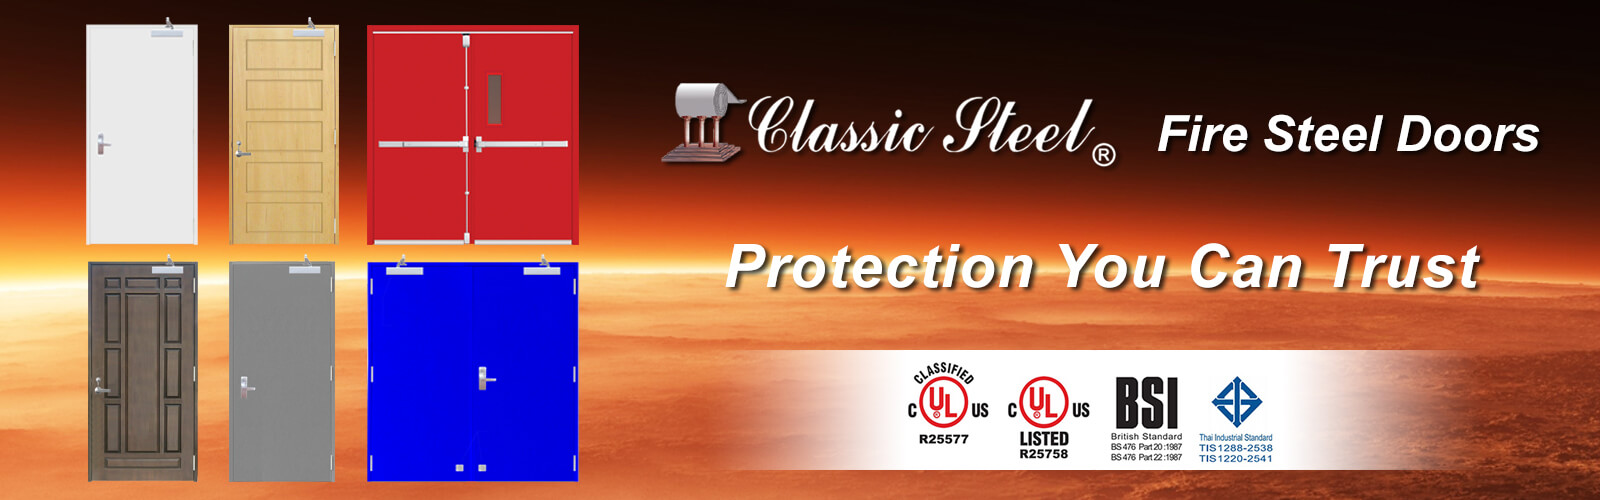
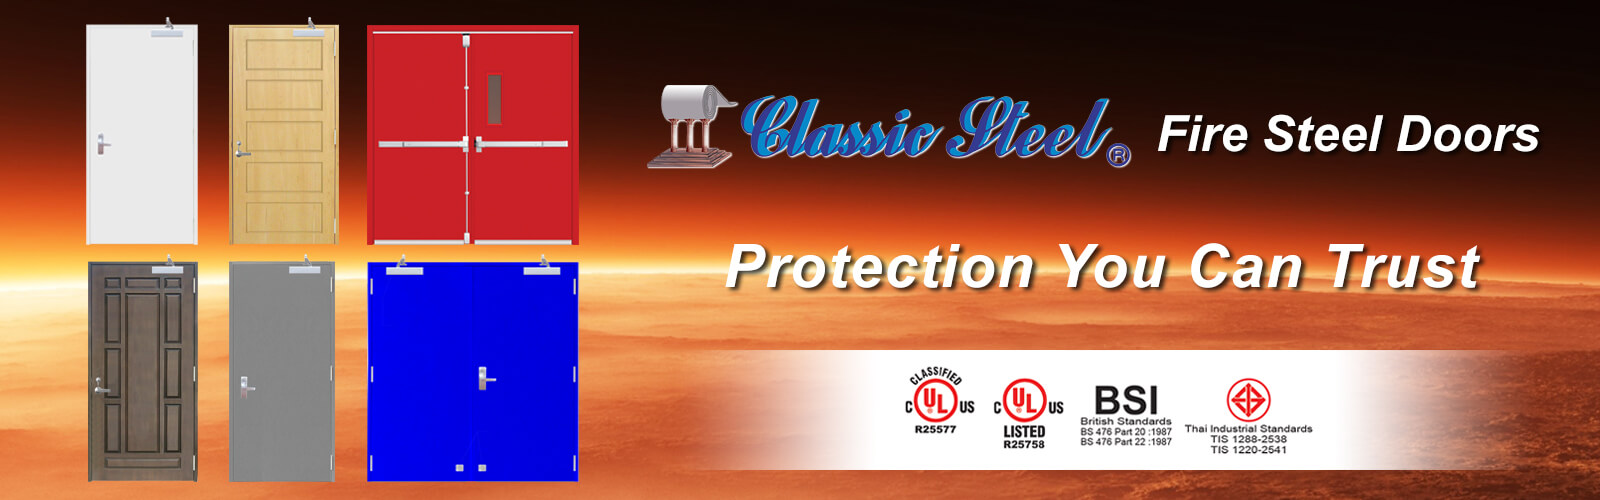
carousel will change depends on lang pref

Changed region(s): [[0.4375, 0.69, 0.9688, 0.96], [0.4062, 0.15, 0.7188, 0.36]]

diff --git a/api/controllers/HomeController.js b/api/controllers/HomeController.js
@@ -37,6 +37,7 @@ module.exports = {
                     title: "seo-home-title",
                     metaKeyword: "seo-home-meta-keyword",
                     metaDesc: "seo-home-meta-desc",
+                    locale: req.getLocale(),
                 });
             })
             .catch(function(err) {
